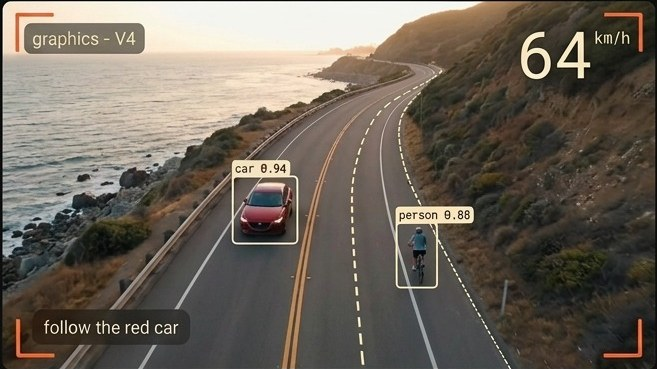
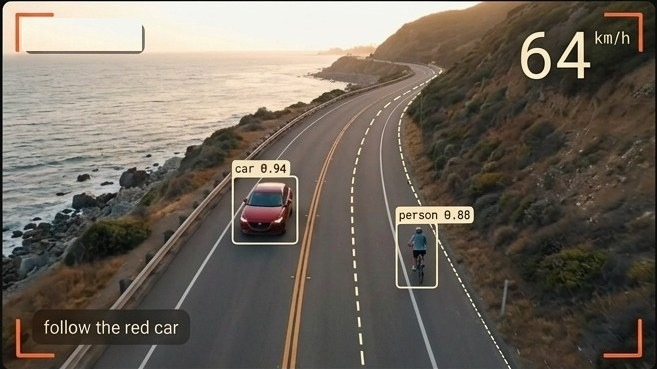
gui: m09 graphics 1:1 (measured timeline/ruler, clip swatches + filmstrip, inspector rows/list) + graphics family dedicated; m15 short node/CDL rows

Changed region(s): [[0.0304, 0.0298, 0.2131, 0.1491]]

diff --git a/crates/kimo-gui/ui/router.js b/crates/kimo-gui/ui/router.js
@@ -21,6 +21,7 @@ export const FAMILIES = [
   ['audio', /^(set_|add_|apply_|auto_|measure_|normalize_|analyze_)?(mix|audio|gain|fader|mute|solo|pan|compress|eq|limiter|limit|loudness|duck|stem|bus|route_)|^track_beats$/],
   ['text', /^(caption|subtitle|add_caption|add_subtitle|edit_caption|transcript_edit|transcri|add_title|title|text|set_text|add_text|set_caption|validate_captions)/],
   ['3d', /^(add_mesh|mesh|model|extrude|bevel|light|camera|particle|emit|simulate|scene|render_3d|add_light|set_light|solve_camera|track|set_camera|add_scene3d|instantiate_gltf|generate_mesh_primitive|contour_sdf_graph|set_mesh_pin|derive_vertex_tangents|fit_track_homography|ecc_refine_track|decompose_track_homography|corner_disagreement|lk_residual_audit|validate_planar_track|undistort_clip|stabilize|apply_camera_solve|pin_layer|set_corner_pin)/],
+  ['graphics', /^(add_shape|add_path_shape|set_path|add_path_key|clear_path_keys|add_shape_modifier|remove_shape_modifier|add_modifier|remove_modifier|set_layer_style|remove_layer_style|add_box_expand|add_detection_box|add_hud_frame|add_counter|add_prompt_box|add_glitch_confetti)$/],
   ['export', /^(export|render|queue_render|encode|deliver)/],
 ];
 export function family(name) {
@@ -152,26 +153,26 @@ function gradeOps(state, MODES, ev) {
       const nk = (A.node && (A.node.kind ?? A.node.effect)) ?? A.kind;
       const addNode = (id, label) => { if (id == null) return; let n = nodes.find(x => x.id === String(id)); if (!n) { n = { id: String(id) }; nodes.push(n); } n.label = label ?? n.label ?? String(id); return n; };
       let graphHit = true;
-      if (tn === 'set_grade_node' || tn === 'add_node') addNode(nid, nk ? `${nid} · ${nk}` : null);
-      else if (tn === 'generate_lut_node') addNode(nid ?? 'lut', `${nid ?? 'lut'} · lut ${numOf(A.size) ?? 33}³`);
+      if (tn === 'set_grade_node' || tn === 'add_node') addNode(nid ?? nk, String(nid ?? nk));
+      else if (tn === 'generate_lut_node') addNode(nid ?? 'lut', String(nid ?? 'lut'));
       else if (tn === 'remove_grade_node') { const k = nodes.findIndex(x => x.id === String(nid)); if (k >= 0) nodes.splice(k, 1); }
       else if (tn === 'set_grade_output') { for (const x of nodes) x.out = false; const n = addNode(nid ?? 'input'); n.out = true; }
-      else if (tn === 'set_node_param') { const n = addNode(nid); if (n) n.label = `${nid} · ${A.parameter ?? 'param'}`; }
-      else if (tn === 'set_node_mask') { const n = addNode(nid); if (n) n.label = `${nid} · ${A.mask ? 'mask' : 'no mask'}`; }
+      else if (tn === 'set_node_param') { addNode(nid); if (A.parameter != null) setRow(String(A.parameter).slice(0, 12), fmtVal(numOf(A.property && A.property.base) ?? A.property?.value ?? '')); }
+      else if (tn === 'set_node_mask') { addNode(nid); setRow('Mask', A.mask ? String(A.mask.kind ?? A.mask.type ?? 'on') : 'off'); }
       else if (tn === 'connect_nodes' || tn === 'disconnect_nodes') { const a = A.from ?? A.source ?? A.src, b = A.to ?? A.target ?? A.dst; if (a != null) addNode(a); if (b != null) addNode(b); if (a != null && b != null) setRow('Edge', `${a} ${tn === 'connect_nodes' ? '→' : '×'} ${b}`); }
       else if (tn === 'create_shared_grade_graph') addNode(`shared:${A.id}`, `shared · ${A.id}`);
       else if (tn === 'remove_shared_grade_graph') { const k = nodes.findIndex(x => x.id === `shared:${A.id}`); if (k >= 0) nodes.splice(k, 1); }
       else if (tn === 'bind_shared_grade_graphs' && Array.isArray(A.graphs)) setRow('Shared', A.graphs.length ? A.graphs.map(String).join(', ') : 'none');
-      else if (tn === 'apply_asc_cdl' && A.path) setRow('CDL', String(A.path).split(/[\\/]/).pop() + (A.encoding === 'ACEScct' ? ' · ACEScct' : ''));
+      else if (tn === 'apply_asc_cdl' && A.path) setRow('CDL', String(A.path).split(/[\\/]/).pop());
       else if (tn === 'set_color_curve' && Array.isArray(A.points)) { setRow(`Curve ${A.channel ?? 'm'}`, `${A.points.length} pts`); const pts = A.points.filter(q => Array.isArray(q) && numOf(q[0]) != null && numOf(q[1]) != null).map(q => [numOf(q[0]), numOf(q[1])]); if (pts.length >= 2) KV._curve = { pts, ch: String(A.channel ?? 'm') }; }
       else if (tn === 'set_grade_scopes' && A.scopes && typeof A.scopes === 'object') { const g = A.scopes.groups, r = A.scopes.graphs; setRow('Scopes', [Array.isArray(g) ? `${g.length} groups` : null, r && typeof r === 'object' ? `${Object.keys(r).length} graphs` : null].filter(Boolean).join(' · ') || 'set'); }
-      else if (tn === 'add_acescct_primaries') { const pr = A.params || {}; const v = ['lift', 'gamma', 'gain', 'offset'].filter(k => numOf(pr[k]) != null).map(k => `${k} ${fmtVal(pr[k])}`).join(' '); setRow('ACEScct', v || 'primaries'); }
+      else if (tn === 'add_acescct_primaries') { const pr = A.params || {}; for (const k of ['lift', 'gamma', 'gain', 'offset']) if (numOf(pr[k]) != null) setRow(k[0].toUpperCase() + k.slice(1), fmtVal(pr[k])); }
       else graphHit = false;
       if (graphHit) {
         hit = true;
         const last = nodes.find(x => x.id === String(nid));
         KV.blocks = KV.blocks.filter(b => !b._nodes);
-        if (nodes.length) KV.blocks.push({ sec: 'Nodes', _grade: true, _nodes: true }, { list: nodes.map((x, i) => `${String(i + 1).padStart(2, '0')}  ${x.label}${x.out ? '  ◂ out' : ''}`), sel: Math.max(0, nodes.indexOf(last ?? nodes.find(x => x.out) ?? nodes[nodes.length - 1])), _grade: true, _nodes: true });
+        if (nodes.length) KV.blocks.push({ sec: 'Nodes', _grade: true, _nodes: true }, { list: nodes.map((x, i) => `${String(i + 1).padStart(2, '0')}  ${x.label}`), sel: Math.max(0, nodes.indexOf(last ?? nodes.find(x => x.out) ?? nodes[nodes.length - 1])), _grade: true, _nodes: true });
         if (KV._curve) { KV.blocks = KV.blocks.filter(b => !b._curveBlk); KV.blocks.push({ curve: KV._curve.pts, ch: KV._curve.ch, _grade: true, _curveBlk: true }); }
       }
     }
@@ -197,6 +198,73 @@ function gradeOps(state, MODES, ev) {
   if (tn === 'match_grade' || tn === 'match_color') { const s1 = box(A.source_region, 'source'), s2 = box(A.ref_region, A.ref_clip_id ? `ref · ${A.ref_clip_id}` : 'ref'); if (s1) regs.push(s1); if (s2) regs.push(s2); }
   if (regs.length) { vw.overlay = (vw.overlay || []).filter(o => o._kind !== tn).concat(regs.filter(Boolean).map(o => ({ ...o, _call: ev.call_id, _kind: tn }))); hit = true; }
   if ((tn === 'match_grade' || tn === 'match_color' || tn === 'pick_white_balance') && !regs.length) { vw.wipe = 1; hit = true; }
+  return hit;
+}
+
+// Graphics (m09): HUD frames, detection boxes, counters, prompt boxes, shapes and paths land on the viewer
+// at the geometry the call carries (normalized rects top-left origin; pixel offsets mapped through the session
+// size), the layer joins the Inspector's Shape layers list, and layer styles write their own rows.
+function graphicsOps(state, MODES, ev) {
+  const P = ev.payload || {}, tn = String(ev.tool_name).toLowerCase();
+  if (ev.phase === 'start') { (state._gfxArgs || (state._gfxArgs = {}))[ev.call_id] = P.args || {}; return false; }
+  if (ev.phase !== 'complete') return false;
+  const A = P.args || (state._gfxArgs && state._gfxArgs[ev.call_id]) || {}; delete (state._gfxArgs || {})[ev.call_id];
+  const R = P.result && typeof P.result === 'object' ? P.result : {};
+  const [mode, V] = modeViews(state, MODES, ev);
+  const vw = V.viewer || (V.viewer = {});
+  const S = state.session || {}, W = S.width, H = S.height;
+  const rect4 = r => Array.isArray(r) && r.length === 4 && r.every(v => numOf(v) != null) ? r.map(numOf) : null;
+  const add = o => { vw.overlay = (vw.overlay || []).filter(x => x._call !== ev.call_id).concat([{ ...o, _call: ev.call_id, _kind: tn }]); };
+  let hit = false, layer = null;
+  if (tn === 'add_detection_box' && [A.x, A.y, A.w, A.h].every(v => numOf(v) != null)) {
+    layer = `det_${A.label ?? 'box'}`; add({ rect: [A.x, A.y, A.w, A.h].map(numOf), label: [A.label, numOf(A.confidence) != null ? numOf(A.confidence).toFixed(2) : null].filter(v => v != null).join(' '), em: true }); hit = true;
+  } else if (tn === 'add_box_expand') {
+    const a = rect4(A.from), b = rect4(A.to) || [0, 0, 1, 1];
+    if (a) { add({ rect: a, label: A.label ?? null, em: true, to: b }); hit = true; layer = 'box_expand'; }
+  } else if (tn === 'add_hud_frame') { add({ brackets: true, label: A.label ?? 'BOXES' }); hit = true; layer = 'hud'; }
+  else if (tn === 'add_counter' && (numOf(A.to) != null || numOf(A.from) != null)) {
+    const x = .5 + (W && numOf(A.x) != null ? numOf(A.x) / W : 0), y = .5 + (H && numOf(A.y) != null ? numOf(A.y) / H : 0);
+    const f = v => (A.prefix ?? '') + (numOf(v) ?? 0).toFixed(numOf(A.decimals) ?? 0) + (A.suffix ?? '');
+    add({ text: `${f(A.from ?? 0)} → ${f(A.to)}`, at: [x, y] }); hit = true; layer = 'counter';
+  } else if (tn === 'add_prompt_box' && A.text != null) {
+    const y = .5 + (numOf(A.y) != null ? numOf(A.y) / 720 : 0);   // engine: px offset from centre at 720p
+    add({ text: String(A.text).slice(0, 48), at: [.5, Math.min(.92, Math.max(.08, y))], box: true }); hit = true; layer = 'prompt';
+  } else if (tn === 'add_shape' && W && H) {
+    const w = (numOf(A.width) ?? 200) / W, h = (numOf(A.height) ?? 200) / H, sh = String(A.shape ?? 'rect');
+    add({ shape: sh, rect: [.5 - w / 2, .5 - h / 2, w, h] }); hit = true; layer = sh;
+  } else if ((tn === 'add_path_shape' || tn === 'set_path' || tn === 'add_path_key') && Array.isArray(A.points) && A.points.length >= 2) {
+    let pts = A.points.map(q => Array.isArray(q) ? [numOf(q[0]), numOf(q[1])] : (q && typeof q === 'object' ? [numOf(q.x), numOf(q.y)] : null)).filter(q => q && q[0] != null && q[1] != null);
+    if (pts.length >= 2) {
+      const norm = pts.every(([x, y]) => Math.abs(x) <= 1.5 && Math.abs(y) <= 1.5);
+      if (!norm && W && H) pts = pts.map(([x, y]) => [x / W, y / H]);
+      if (norm || (W && H)) { add({ path: pts, closed: !!A.closed }); hit = true; layer = 'path'; }
+    }
+  } else if (tn === 'add_glitch_confetti') {
+    const n = Math.min(60, numOf(A.squares) ?? 24), seed = numOf(A.seed) ?? 1;
+    add({ squares: n, seed }); hit = true; layer = 'confetti';
+  }
+  // Inspector: Shape layers list and Layer style rows
+  const kvp = Object.entries(MODES[mode] ? MODES[mode].panels : {}).find(([, sp]) => sp.kind === 'kv');
+  if (kvp) {
+    const K = V[kvp[0]] || (V[kvp[0]] = {}); K.blocks = (K.blocks || []).filter(b => b._gfx);
+    const nm = String(R.clip_id ?? R.id ?? A.clip_id ?? layer ?? '');
+    if (layer && nm) {
+      let li = K.blocks.find(b => b._layers);
+      if (!li) { K.blocks.push({ sec: 'Shape layers', _gfx: true }); li = { list: [], sel: 0, _gfx: true, _layers: true }; K.blocks.push(li); }
+      if (!li.list.includes(nm)) li.list.push(nm); li.sel = li.list.indexOf(nm); if (li.list.length > 8) li.list.splice(0, li.list.length - 8);
+    }
+    if ((tn === 'set_layer_style' || tn === 'add_shape_modifier' || tn === 'add_modifier') && (A.params || A.style || A.kind)) {
+      const sec = tn === 'set_layer_style' ? 'Layer style' : 'Modifiers';
+      let at = K.blocks.findIndex(b => b.sec === sec); if (at < 0) { K.blocks.unshift({ sec, _gfx: true }); at = 0; }
+      const rows = Object.entries(A.params || {}).filter(([, v]) => numOf(v) != null).slice(0, 5).map(([k, v]) => ({ k: `${A.style ?? A.kind ?? ''} ${k}`.trim(), v: fmtVal(v, k), ch: true, _gfx: true, _flash: now() }));
+      if (!rows.length) rows.push({ k: String(A.style ?? A.kind), v: 'on', ch: true, _gfx: true, _flash: now() });
+      for (const b of K.blocks) b.ch = false;
+      K.blocks.splice(at + 1, 0, ...rows.filter(r => !K.blocks.some(b => b.k === r.k && (b.v = r.v, b.ch = true, b._flash = now()))));
+      if (A.clip_id != null) K.sub = `${A.clip_id} - shape layer`; hit = true;
+    }
+    if (tn === 'remove_layer_style' || tn === 'remove_shape_modifier' || tn === 'remove_modifier' || tn === 'clear_path_keys') { K.blocks.push({ k: tn.replace(/_/g, ' '), v: String(A.effect_id ?? A.clip_id ?? ''), ch: true, _gfx: true, _flash: now() }); hit = true; }
+  }
+  if (hit) ev._kvDone = true;
   return hit;
 }
 
@@ -457,6 +525,7 @@ export function route(ev, state, MODES) {
   if (fam === 'inspect') return inspectOps(state, MODES, ev, id);
   if (fam === 'transform' && (ev.phase === 'start' || ev.phase === 'complete')) xfOps(state, MODES, ev);
   if (fam === '3d') sceneOps(state, MODES, ev);
+  if (fam === 'graphics') graphicsOps(state, MODES, ev);
   if (ev.phase === 'start' && (fam === 'color' || fam === 'effects')) (state._gradeArgs || (state._gradeArgs = {}))[ev.call_id] = (ev.payload || {}).args || {};
   if ((fam === 'color' || fam === 'effects') && gradeOps(state, MODES, ev)) ev._kvDone = true;
   const T = ev.target || {}, P = ev.payload || {};

diff --git a/crates/kimo-gui/ui/panels.js b/crates/kimo-gui/ui/panels.js
@@ -126,7 +126,13 @@ function overlay(ov, w, h) {
       for (let i = 1; i < 8; i++) { const x = w * i / 8; s += line(Array.from({ length: 21 }, (_, j) => [x, h * j / 20])); }
       for (let i = 1; i < 6; i++) { const y = h * i / 6; s += line(Array.from({ length: 21 }, (_, j) => [w * j / 20, y])); }
     }
-    if (o.rect) { const [x, y, rw, rh] = o.rect; s += `<rect x="${px(x * w)}" y="${px(y * h)}" width="${px(rw * w)}" height="${px(rh * h)}" fill="none" stroke="var(--cream)" stroke-width="1.25" stroke-dasharray="5 3"/>` + (o.label ? `<text x="${px(x * w + 4)}" y="${px(y * h - 5)}" style="fill:var(--cream);font-family:var(--mono);font-size:11px">${E(o.label)}</text>` : ''); }
+    if (o.rect && !(o.shape && /ellipse|circle/.test(o.shape))) { const [x, y, rw, rh] = o.rect; s += `<rect x="${px(x * w)}" y="${px(y * h)}" width="${px(rw * w)}" height="${px(rh * h)}" fill="${o.em ? 'rgba(255,90,35,.08)' : 'none'}" stroke="${o.em || o.shape ? 'var(--ember)' : 'var(--cream)'}" stroke-width="${o.em ? 1.6 : 1.25}"${o.em || o.shape ? '' : ' stroke-dasharray="5 3"'}/>` + (o.label ? `<rect x="${px(x * w)}" y="${px(y * h - 18)}" width="${px(7 * String(o.label).length + 10)}" height="17" rx="3" fill="${o.em ? 'var(--ember)' : 'rgba(20,20,18,.8)'}"/><text x="${px(x * w + 5)}" y="${px(y * h - 5.5)}" style="fill:${o.em ? '#141412' : 'var(--cream)'};font-family:var(--mono);font-size:11.5px">${E(o.label)}</text>` : ''); }
+    if (o.brackets) { const m = 14, L = 26; s += `<path d="M${m} ${m + L}V${m}H${m + L}M${w - m - L} ${m}H${w - m}V${m + L}M${w - m} ${h - m - L}V${h - m}H${w - m - L}M${m + L} ${h - m}H${m}V${h - m - L}" fill="none" stroke="var(--ember)" stroke-width="2"/>` + (o.label ? `<text x="${m + 6}" y="${m + 18}" style="fill:var(--cream);font-family:var(--mono);font-size:11px;paint-order:stroke;stroke:rgba(10,10,9,.7);stroke-width:3px">${E(o.label)}</text>` : ''); }
+    if (o.to) { const [a, b, c, d] = o.to; s += `<rect x="${px(a * w)}" y="${px(b * h)}" width="${px(c * w)}" height="${px(d * h)}" fill="none" stroke="var(--ember)" stroke-opacity=".6" stroke-width="1" stroke-dasharray="4 4"/>`; }
+    if (o.text != null) { const [x, y] = [o.at[0] * w, o.at[1] * h], tw = Math.min(w - 20, 9 * String(o.text).length + 24); s += (o.box ? `<rect x="${px(x - tw / 2)}" y="${px(y - 17)}" width="${px(tw)}" height="34" rx="8" fill="rgba(20,20,18,.82)" stroke="var(--ember)" stroke-width="1.2"/>` : '') + `<text x="${px(x)}" y="${px(y + 5)}" text-anchor="middle" style="fill:var(--cream);font-family:var(--mono);font-size:${o.box ? 13 : 18}px;paint-order:stroke;stroke:rgba(10,10,9,.7);stroke-width:3px">${E(o.text)}</text>`; }
+    if (o.shape) { const [a, b, c, d] = o.rect.map((v, i) => v * (i % 2 ? h : w)); s += /ellipse|circle/.test(o.shape) ? `<ellipse cx="${px(a + c / 2)}" cy="${px(b + d / 2)}" rx="${px(c / 2)}" ry="${px(d / 2)}" fill="rgba(255,90,35,.08)" stroke="var(--ember)" stroke-width="1.5"/>` : ''; }
+    if (o.path) s += `<${o.closed ? 'polygon' : 'polyline'} points="${o.path.map(([x, y]) => px(x * w) + ',' + px(y * h)).join(' ')}" fill="none" stroke="var(--ember)" stroke-width="1.5"/>` + o.path.map(([x, y]) => `<circle cx="${px(x * w)}" cy="${px(y * h)}" r="3" fill="var(--cream)"/>`).join('');
+    if (o.squares) { const R = rng(o.seed || 1); for (let i = 0; i < o.squares; i++) { const sz = 4 + R() * 10; s += `<rect x="${px(R() * (w - sz))}" y="${px(R() * (h - sz))}" width="${px(sz)}" height="${px(sz)}" fill="${['var(--cream)', 'var(--ember)', '#141412'][i % 3]}" opacity=".85"/>`; } }
     if (o.crop) { const cw = w * o.crop, ch = h * o.crop; s += `<rect x="${px((w - cw) / 2)}" y="${px((h - ch) / 2)}" width="${px(cw)}" height="${px(ch)}" fill="none" stroke="var(--ember)" stroke-width="1.5" stroke-dasharray="6 4"/>`; }
     if (o.vline != null) s += `<line x1="${o.vline * w}" x2="${o.vline * w}" y1="0" y2="${h}" stroke="var(--ember)" stroke-width="2"/>`;
     if (o.quad && o.grid) {   // mesh tracker: the nx x ny lattice inside the quad (bilinear)
@@ -366,7 +372,7 @@ function timeline({ spec, data, w, h }) {
     for (const c of (t.clips || [])) {
       const a = X(c.s), b = X(c.e);
       html += `<div class="clip ${c.cls || ''}${F(c)}" style="left:${px(a)}px;width:${px(b - a)}px${c.bg ? ';background:' + c.bg : ''}">` +
-        (c.thumb ? `<span class="ct"><img src="${E(c.thumb)}" alt=""></span>` : '') + (c.cover ? `<img src="${E(c.cover)}" alt="">` : '') + (c.label ? `<span class="cl">${E(c.label)}</span>` : '') +
+        (c.thumb ? `<span class="ct"><img src="${E(c.thumb)}" alt=""></span>` : c.sw ? '<span class="ct sw"></span>' : '') + (c.cover ? `<img src="${E(c.cover)}" alt="">` : '') + (c.label ? `<span class="cl">${E(c.label)}</span>` : '') +
         (c.pill ? `<span class="cpill">${E(c.pill)}</span>` : '') +
         (c.keys ? c.keys.map(k => `<i class="ckey${k.em ? ' em' : ''}" style="left:${px(X(k.t) - a)}px"></i>`).join('') : '') +
         (c.fx ? (o.fxRow ? `<span class="fxrow">${c.fx.map(f => `<span class="fxchip">${E(f)}</span>`).join('')}</span>` : c.fx.map(f => `<span class="fxchip">${E(f)}</span>`).join('')) : '') + '</div>';

diff --git a/crates/kimo-gui/ui/modes.js b/crates/kimo-gui/ui/modes.js
@@ -72,9 +72,10 @@ export const MODES = {
       viewer: { kind: 'viewer', opts: { pad: [0, 0, 0, 0], metaY: 495, metaL: 16, metaR: 19 } }, insp: { kind: 'kv', title: 'Inspector', opts: { secRule: true, top: 77.5 } },
       prof: { kind: 'profile', title: 'Profile /History', opts: { ax: 16, x1: 596, base: 149.5, top: 48, smooth: true, hollow: true, tx: 623, ty: 47, tw: 80, th: 80, gap: 6, labY: 144 } } } },
   graphics: { activity: 'building graphics', top: 46, foot: 27,
+    vars: { '--kv-row': '32px', '--sec-h': '46px', '--li-h': '19px', '--li-fs': '15.5px', '--li-font': 'var(--sans)', '--li-c': 'var(--cream)', '--list-border': '0', '--li-sel-r': '6px', '--li-sel-bg': '#3a3731', '--sub-c': 'var(--dim)', '--sec-line': 'transparent' },
     rects: { agent: [10, 55, 377, 480], viewer: [387, 55, 1070, 480], insp: [1080, 55, 1365, 480], tl: [10, 489, 1365, 741] },
-    panels: { agent: AG({ count: true }), viewer: { kind: 'viewer', opts: { pad: [12, 12, 42, 12] } }, insp: { kind: 'kv', title: 'Inspector' },
-      tl: { kind: 'timeline', opts: { x0: 54, xr: 12, rulerY: 4, trackY: 28, trackH: 44 } } } },
+    panels: { agent: AG({ count: true }), viewer: { kind: 'viewer', opts: { pad: [12, 12, 42, 12] } }, insp: { kind: 'kv', title: 'Inspector', opts: { lines: true, top: 58 } },
+      tl: { kind: 'timeline', opts: { x0: 56.5, xr: 8, rulerY: 1, trackY: 37, trackH: 37, trackGap: 7.5 } } } },
   particles: { activity: 'simulating', top: 46, foot: 0, rightCls: 'chips', vars: { '--radius': '10px', '--panel': '#121211' },
     rects: { agent: [11, 55, 353, 421], emit: [11, 432, 353, 579], viewer: [363, 55, 1112, 579], insp: [1122, 55, 1364, 579], sim: [11, 590, 1364, 759] },
     panels: { agent: AG({ chips: true, rowH: 38, gap: 6, top: 46 }), emit: { kind: 'list', title: 'Emitters', opts: { chips: true, rowH: 28, gap: 5, y0: 44 } },

diff --git a/crates/kimo-gui/ui/app.css b/crates/kimo-gui/ui/app.css
@@ -142,7 +142,7 @@ body{color:var(--cream);font-family:var(--sans);font-size:var(--fs);
 .kv .row.bar::before{content:"";position:absolute;left:-15px;top:4px;bottom:4px;width:3px;background:var(--ember)}
 .kv .list{border:var(--list-border,1px solid var(--line));border-radius:5px;overflow:hidden;margin:4px 0}
 .kv .list div{height:var(--li-h,26px);display:flex;align-items:center;padding:0 10px;font-family:var(--li-font,var(--mono));font-size:var(--li-fs,12px);color:var(--li-c,var(--text))}
-.kv .list div.sel{background:var(--raise2);color:var(--cream)}
+.kv .list div.sel{background:var(--li-sel-bg,var(--raise2));color:var(--cream)}
 .kv .code{background:var(--raise);border-radius:5px;padding:var(--code-pad,9px 11px);font-family:var(--mono);font-size:var(--code-fs,12px);line-height:var(--code-lh,18px);color:var(--cream);white-space:pre;margin:2px 0 4px}
 .kv .widget{margin:4px 0;border:1px solid var(--line);border-radius:5px;background:#0e0e0d;overflow:hidden}
 .kv .widget svg{display:block;width:100%;height:100%}
@@ -292,3 +292,4 @@ body.calls-sans{--call-font:var(--sans)}
 .kv .widget{position:relative}
 [data-panel=grade] .ph .t{font-family:var(--grade-title-font,var(--title-font,var(--sans)))}
 .kv .list div{white-space:nowrap;overflow:hidden;text-overflow:ellipsis;display:block;line-height:var(--li-h,26px)}
+.clip .ct.sw{background:var(--sw-bg,rgba(0,0,0,.28))}

diff --git a/crates/kimo-gui/demo/build_scenarios.py b/crates/kimo-gui/demo/build_scenarios.py
@@ -155,14 +155,14 @@ scen("m08", "modelling", "amphora_study.kimo", "claude", hms("00:34:12"),
 scen("m09", "graphics", "drone_hud.kimo", "cursor", hms("00:27:40"),
   [["add_hud_frame", ["V4", "corners"], 200], ["add_detection_box", ["car", "0.94"], 100], ["add_detection_box", ["person"], 100], ["add_counter", ["speed", "0-72"], 200],
    ["add_prompt_box", ["V2"], 100], ["add_path_shape", ["route", "6 pts"], 100], ["add_shape_modifier", ["trim"], 100], ["set_layer_style", ["hud", "stroke"], 400]],
-  {"viewer": {"src": F("m09"), "tag": "graphics · V4", "tc": "01:00:06:03", "res": "1920 x 1080 30p"},
-   "insp": {"sub": "hud · shape layer", "blocks": [S("Layer style"), K("Stroke", "2 px", **{"from": "1"}), K("Stroke color", "cream"), K("Drop shadow", "off"), K("Inner glow", "off"), K("Opacity", "90%"),
+  {"viewer": {"src": F("m09"), "tags": [{"text": "graphics - V4", "x": 25, "y": 21}], "tc": "01:00:06:03", "res": "1920 x 1080 30p"},
+   "insp": {"sub": "hud - shape layer", "blocks": [S("Layer style"), K("Stroke", "2 px", **{"from": "1"}), K("Stroke color", "cream"), K("Drop shadow", "off"), K("Inner glow", "off"), K("Opacity", "90%"),
             S("Shape layers"), {"list": ["hud", "det_car", "det_person", "counter_speed", "prompt_1", "route"], "sel": 0}]},
-   "tl": {"ruler": {"t0": 1.3, "t1": 10.6, "step": 2}, "playhead": 6.0, "tracks": [
-      {"label": "V4", "clips": [{"s": 1.6, "e": 5.4, "label": "hud", "cls": "mauve sel"}, {"s": 5.5, "e": 10.6, "label": "counter_speed", "cls": "mauve"}]},
-      {"label": "V3", "clips": [{"s": 1.6, "e": 3.9, "label": "det_car", "thumb": F("m09_t1")}, {"s": 4.0, "e": 6.4, "label": "det_person", "thumb": F("m09_t2")}, {"s": 6.5, "e": 10.6, "cls": "ghost"}]},
-      {"label": "V2", "clips": [{"s": 1.6, "e": 5.9, "label": "prompt_1", "cls": "ghost"}, {"s": 6.0, "e": 10.6, "label": "- - - -  route", "cls": "ghost"}]},
-      {"label": "V1", "clips": [{"s": 1.6, "e": 10.6, "label": "coast_drone", "thumb": F("m09_t3")}]}]}},
+   "tl": {"ruler": {"t0": 0.885, "t1": 11.087, "step": 2, "first": 2, "last": 10, "minor": 0.5, "minorFrom": 1.0}, "playhead": 6.0, "tracks": [
+      {"label": "V4", "clips": [{"s": 0.885, "e": 5.553, "label": "hud", "cls": "mauve sel", "sw": True}, {"s": 5.609, "e": 11.087, "label": "counter_speed", "cls": "mauve", "sw": True}]},
+      {"label": "V3", "clips": [{"s": 0.885, "e": 4.447, "label": "det_car", "thumb": F("m09_t1")}, {"s": 4.502, "e": 7.609, "label": "det_person", "thumb": F("m09_t2")}, {"s": 7.672, "e": 11.087, "cls": "ghost"}]},
+      {"label": "V2", "clips": [{"s": 0.885, "e": 5.553, "label": "prompt_1", "sw": True}, {"s": 5.617, "e": 11.087, "label": "- - - -  route", "sw": True}]},
+      {"label": "V1", "clips": [{"s": 0.885, "e": 11.087, "label": "coast_drone", "thumb": F("m09_t3"), "bg": "url(" + F("m09_v1") + ") center/100% 100%"}]}]}},
   stats={"cpu": 54, "ffmpeg": "7.1", "saved_s": 1}, final={"count": 48})
 
 # ---------------------------------------------------------------- m10 particles

diff --git a/crates/kimo-gui/tests/coverage_test.py b/crates/kimo-gui/tests/coverage_test.py
@@ -50,6 +50,7 @@ async def main(strict):
              'audio': 'EQ / comp / pan / meters / M-S', 'color': 'grade wipe + false colour', 'export': 'job card: progress bar, settings, renders row',
              'transform': 'viewer gizmo: box + 8 handles + anchor, previous pose, move arrow, readout; keyframe diamonds on the clip; motion path, bezier ease, null, parent link',
              '3d': 'camera orbit ring + frustum + pan keys + axis triad, scene objects in the tree, track quad / ROI / mesh grid / point ring / matte seed on the viewer, light glyph + Lights row, mesh op on the Stack, physics bodies, solve RMS',
+             'graphics': 'viewer: detection box + label, HUD brackets, box expand, counter, prompt box, shape, path, confetti; Shape layers list + Layer style rows',
              'inspect': 'read-only: quiet HUD read state + result pill + peek ring on the target (no mutation, no mode hop)'}
     by = {}
     for n, fam, mode in res: by.setdefault(fam, []).append((n, mode))
